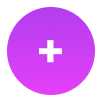
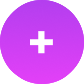
Formatted listener profile pics

Changed region(s): [[0.0, 0.0, 1.0, 1.0], [0.3571, 0.3571, 0.6429, 0.6429]]

diff --git a/frontend/src/shared/ListenerIcons.module.css b/frontend/src/shared/ListenerIcons.module.css
@@ -3,8 +3,11 @@
 	position: relative;
 }
 .listenerImage {
-	height: 25px;
 	margin-left: 10px;
+	height: 30px;
+	width: 30px;
+	border-radius: 50%;
+	border: 2px solid #FFFFFF;
 	position: relative;
 	-webkit-user-drag: none;
 	-webkit-user-select: none;
